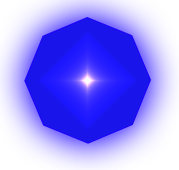
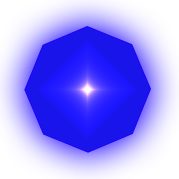
more image fixes

diff --git a/index.html b/index.html
@@ -9,7 +9,9 @@
   <div id="main">
     <div class="container">
       <div id="header">
-        <img class="header" src="photoshop/slices/images/website_layout_04_gem.png" alt="Cobalt Gem" height="170" width="179">
+        <div id="headimage">
+          <img class="header" src="photoshop/slices/images/website_layout_04_gem.png" alt="Cobalt Gem" height="179" width="179">
+        </div><!--end of headimage-->
         <div id="logo">
           <h1>Logo</h1>
         </div>

diff --git a/style.css b/style.css
@@ -21,6 +21,9 @@ body{
 #header{
   padding-top: 80px;
 }
+#headimage{
+  padding-top: 80px;
+}
 #tagline{
   float: left;
   padding-top: 20px;
